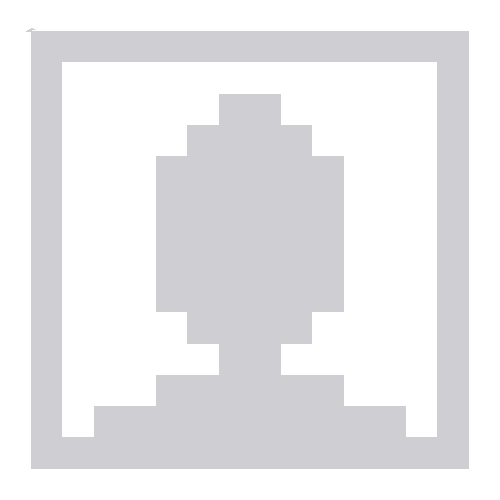
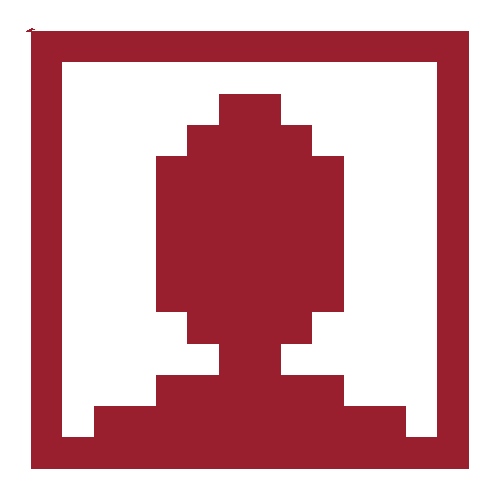
front home page, variable css dans App

diff --git a/src/components/NavBar.vue b/src/components/NavBar.vue
@@ -12,7 +12,7 @@
     </div>
     <div class="nav_droite">
       <div class="nav_droite_haut">
-        <h1 id="accroche">{{ translate('accroche') }}</h1>
+        <h1 id="accroche">{{ translate('title') }}</h1>
       </div>
       <hr>
       <div class="nav_droite_bas">
@@ -59,20 +59,11 @@ export default {
 }
 window.addEventListener("scroll", function(){
   let header = document.querySelector("nav");
-  header.classList.toggle("sticky", window.scrollY > 30);
+  header.classList.toggle("sticky", window.scrollY > 0);// ou 30
 });
 </script>
 
 <style>
-:root{
-  --paragraph: #a7a9be;
-  --bg: #0f0e17;
-  --title: #fffffe;
-  --bg-button: #ff8906;
-  --bg-button2: #e53170;
-  --secondary: #f25f4c;
-  --transition: 0.5s
-}
 *{
   margin: 0;
   padding: 0;
@@ -83,7 +74,7 @@ nav{
 //border: 1px solid grey;
   display: flex;
   justify-content: space-between;
-  background-color: rgb(5.9,5.5,9,0.80);
+  background-color: rgba(255, 255, 255, 0.6);
   position: fixed;
   z-index: 100000;
   width: 100%;
@@ -95,7 +86,7 @@ nav{
 
 hr{
   width: 80%;
-  border: 1px solid var(--secondary);
+  border: 1px solid var(--paragraph);
   margin-left: 10%
 }
 
@@ -184,11 +175,6 @@ hr{
   width: 100%;
 }
 
-#accroche:hover{
-  color: var(--secondary);
-  filter: drop-shadow(0px 0px 10px var(--secondary));
-}
-
 .test{
   border: 1px solid red;
 }
@@ -202,23 +188,23 @@ hr{
 }
 
 .nav_titre, .deco_select{
-  color: var(--title);
+  color: var(--paragraph);
   text-decoration: none;
   background-color: transparent;
   border-radius: 5px;
   font-size: 1.5em;
   padding: 0.3em;
-  filter: drop-shadow(0px 0px 20px var(--title));
+  filter: drop-shadow(0px 0px 20px var(--paragraph));
 
 }
 
 .nav_titre:hover, .deco_select:hover{
-  background-color: var(--secondary);
+  background-color: var(--title);
   transition: 0.3s;
-  border: 2px solid var(--secondary);
+  border: 2px solid var(--title);
   color: var(--bg);
   cursor: pointer;
-  filter: drop-shadow(0px 0px 20px var(--secondary));
+  filter: drop-shadow(0px 0px 20px var(--title));
 }
 
 

diff --git a/src/views/HomeView.vue b/src/views/HomeView.vue
@@ -53,17 +53,6 @@ export default {
 </script>
 
 <style>
-:root{
-  --paragraph: #a7a9be;
-  --bg: #0f0e17;
-  --title: #fffffe;
-  --bg-button: #ff8906;
-  --bg-button2: #e53170;
-  --secondary: #f25f4c;
-  --transition: 0.5s;
-  --bg2: #04042EFF;
-}
-
 *{
   margin: 0;
   padding: 0;
@@ -107,7 +96,7 @@ export default {
 .home-gauche{
   display: flex;
   align-items: center;
-  background-color: black;
+  background-color: var(--bg);
 }
 
 .home-droite{
@@ -115,13 +104,13 @@ export default {
   width: 50%;
   display: flex;
   align-items: center;
-  background-color: black;
+  background-color: var(--bg);
   padding-left: 10%;
   border-radius: 0 20px 20px 0;
 }
 h2{
   text-align: center;
-  color: aliceblue;
+  color: var(--paragraph);
   width: 90%;
 }
 

diff --git a/src/components/VitrinePrincipale.vue b/src/components/VitrinePrincipale.vue
@@ -1,9 +1,6 @@
 <template>
     <div class="vitrine-principale">
-        <img src="../assets/main_banniere.jpg" alt="Image principale">
-        <div id="titre-box">
-            <h1>{{ translate('title') }}</h1>
-        </div>
+        <img src="../assets/image/fond_ecran/bg_home.png" alt="Image principale">
     </div>
 </template>
 
@@ -27,7 +24,6 @@ export default {
 <style scoped>
 img {
     width: 100%;
-    filter: blur(2px);
 }
 #titre-box {
     position: absolute;

diff --git a/src/views/PanierView.vue b/src/views/PanierView.vue
@@ -16,16 +16,6 @@ export default {
 </script>
 
 <style>
-:root{
-  --paragraph: #a7a9be;
-  --bg: #0f0e17;
-  --title: #fffffe;
-  --bg-button: #ff8906;
-  --bg-button2: #e53170;
-  --secondary: #f25f4c;
-  --transition: 0.5s
-}
-
 .panier{
   background-color: var(--bg);
   color: var(--title);

diff --git a/src/App.vue b/src/App.vue
@@ -34,5 +34,14 @@ export default {
 </script>
 
 <style>
-
+:root{
+  --paragraph: #991e2e;/**/
+  --bg: #e2e2e2;/*9d1f2d*/
+  --title: #f2202f;
+  --bg-button: #ff8906;
+  --bg-button2: #e53170;
+  --secondary: #f25f4c;
+  --transition: 0.5s;
+  --bg2: #f1f1f2;/*f44d48*/
+}
 </style>

diff --git a/src/views/BilletsView.vue b/src/views/BilletsView.vue
@@ -15,15 +15,6 @@ export default {
 </script>
 
 <style>
-:root{
-  --paragraph: #a7a9be;
-  --bg: #0f0e17;
-  --title: #fffffe;
-  --bg-button: #ff8906;
-  --bg-button2: #e53170;
-  --secondary: #f25f4c;
-  --transition: 0.5s
-}
 .billet{
   border: 1px var(--bg) solid;
 }

diff --git a/src/components/PrestatairesList.vue b/src/components/PrestatairesList.vue
@@ -105,7 +105,7 @@ export default {
 <style scoped>
 .prestataires {
   text-align: center;
-  background-color: black;
+  background-color: var(--bg);
   padding: 20px;
   border-radius: 20px 0 0 20px;
 }
